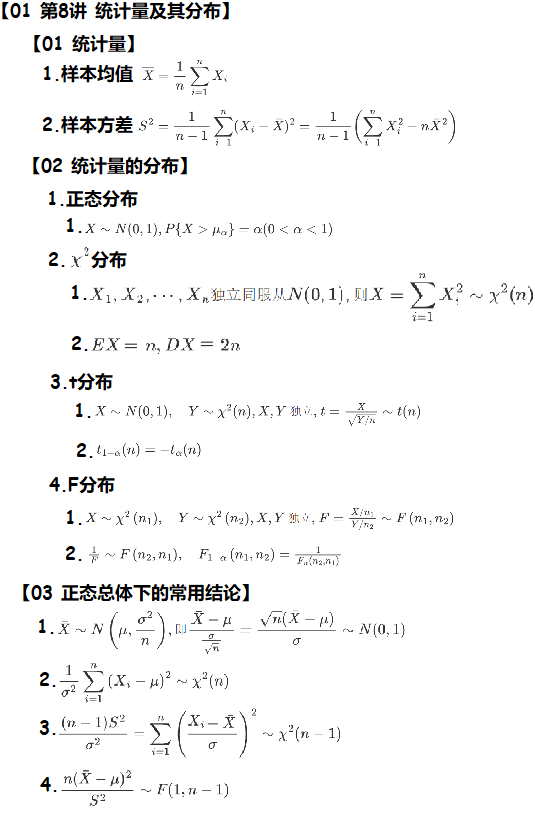
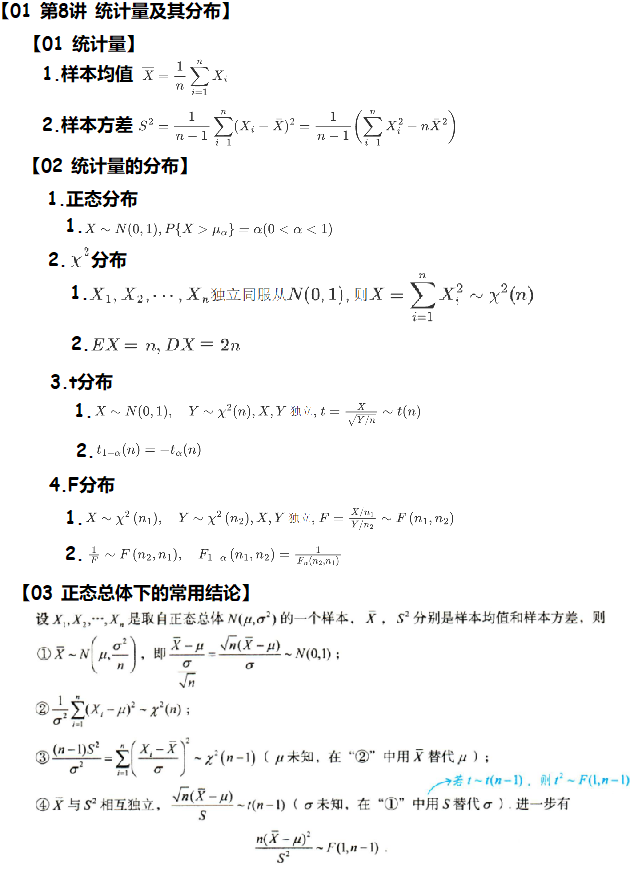
241108

diff --git a/01 真题/01 23/01 选择题 50’ = 10 × 5‘/03 选择题 8-10 概统 15‘ = 3 × 5’ 241103/02 选择题09 正态总体的抽样分布 F分布 241105/01 241107/02 Doc.md b/01 真题/01 23/01 选择题 50’ = 10 × 5‘/03 选择题 8-10 概统 15‘ = 3 × 5’ 241103/02 选择题09 正态总体的抽样分布 F分布 241105/01 241107/02 Doc.md
@@ -1,6 +1,6 @@
 # 01 背诵
 
-<img src="https://cvp.oss-cn-shanghai.aliyuncs.com/202411072154460.png" alt="image-20241107215434386" style="zoom:50%;" />
+<img src="https://cvp.oss-cn-shanghai.aliyuncs.com/202411080932374.png" alt="image-20241108093206312" style="zoom:50%;" />
 
 
 
